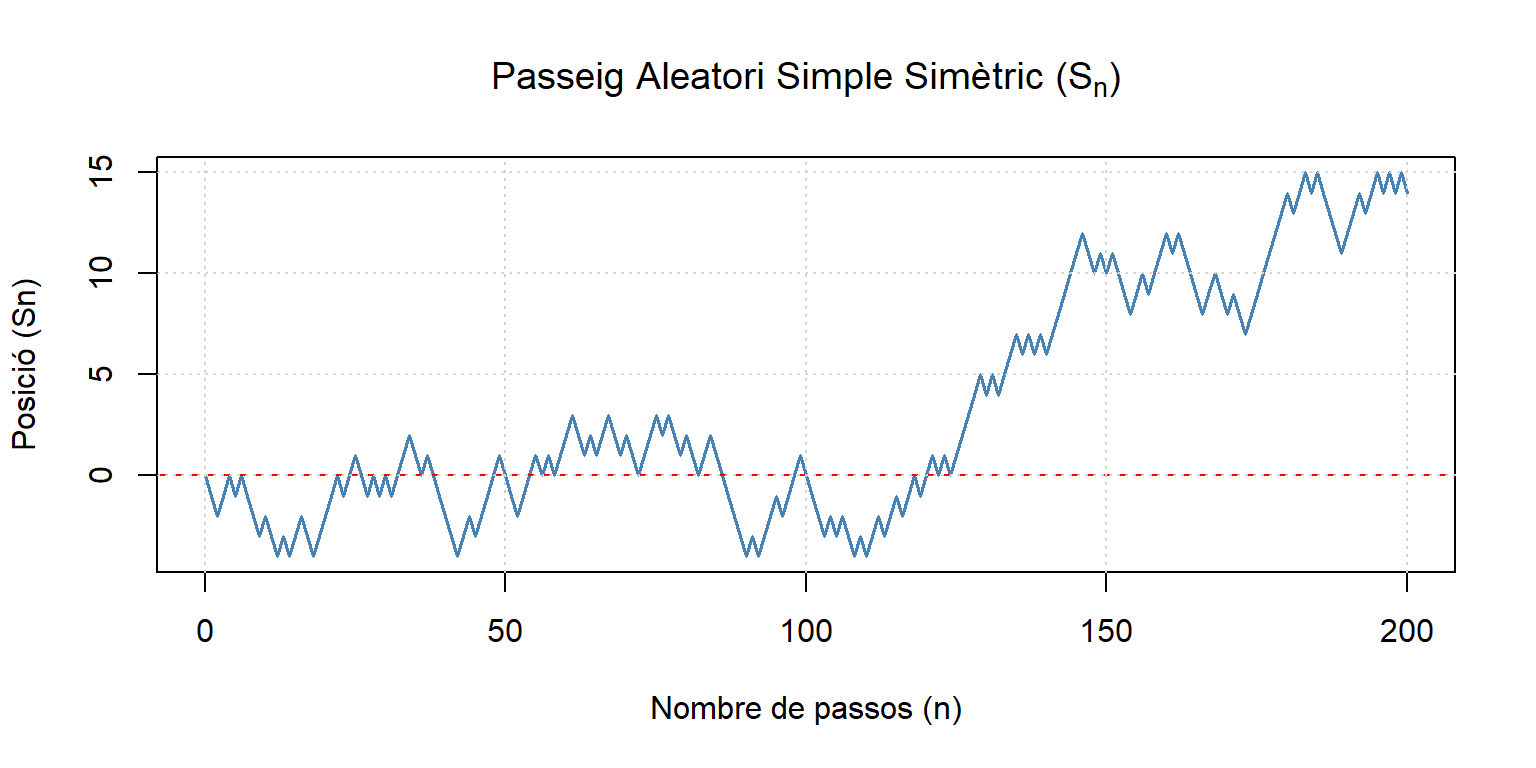
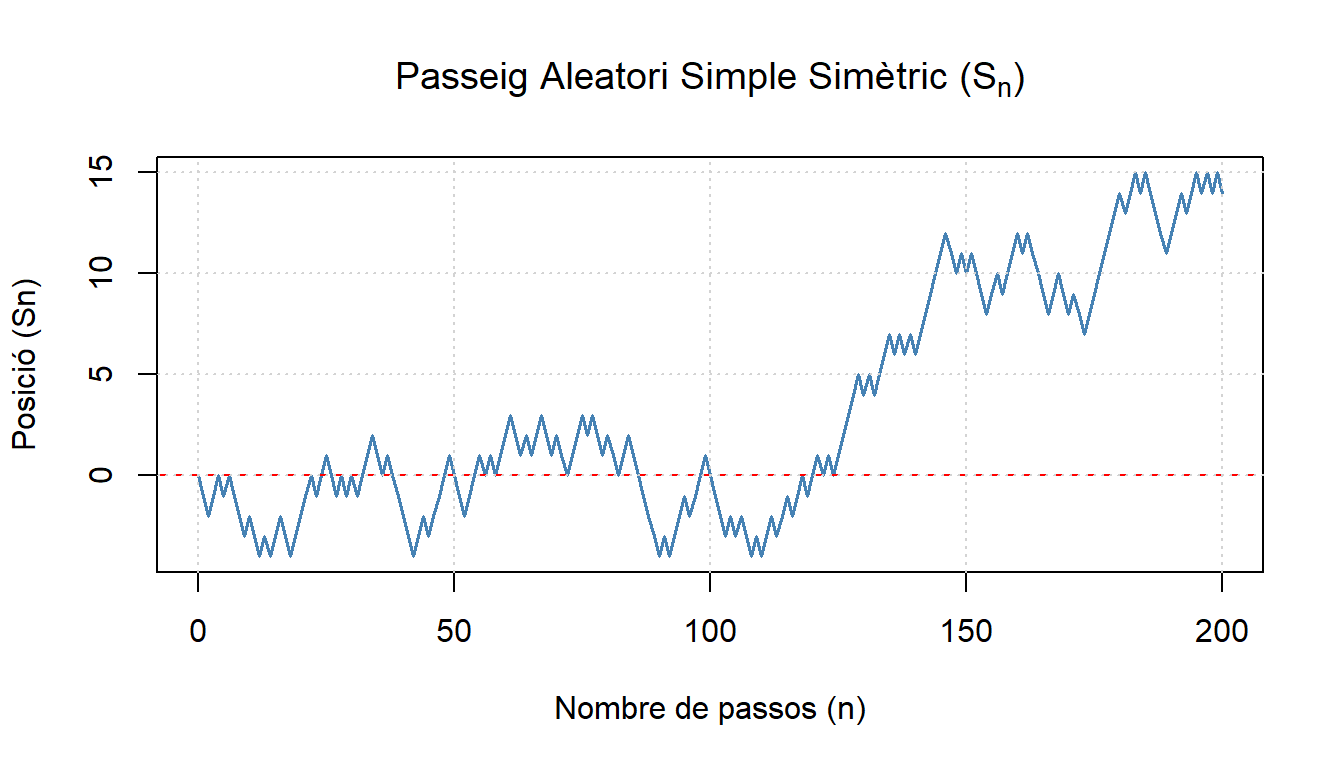
29072026_bis

diff --git a/docs/principals-tipus-de-processos-estocàstics..html b/docs/principals-tipus-de-processos-estocàstics..html
@@ -744,7 +744,7 @@ P(S_n=k\mid S_{i_0}=a_0,S_{i_1}=a_1,\dots, S_{i_m}=a_m)=P(S_n=k\mid S_{i_m}=a_m)
 ## [151] 10 11 10  9  8  9 10  9 10 11 12 11 12 11 10  9  8  9 10  9  8  9  8  7  8
 ## [176]  9 10 11 12 13 14 13 14 15 14 15 14 13 12 11 12 13 14 13 14 15 14 15 14 15
 ## [201] 14</code></pre>
-<p><img src="images/passeig-aleatori-1.png" alt="" width="768" style="display: block; margin: auto;" /></p>
+<p><img src="images/passeig-aleatori-1.png" alt="" width="672" style="display: block; margin: auto;" /></p>
 </div>
 <hr />
 <p>Considerem una representació d’un passeig aleatori simple en el pla cartesiá amb el parell de coordenades <span class="math inline">\((n,Sn), \quad n \in \mathbb{N}\)</span></p>
